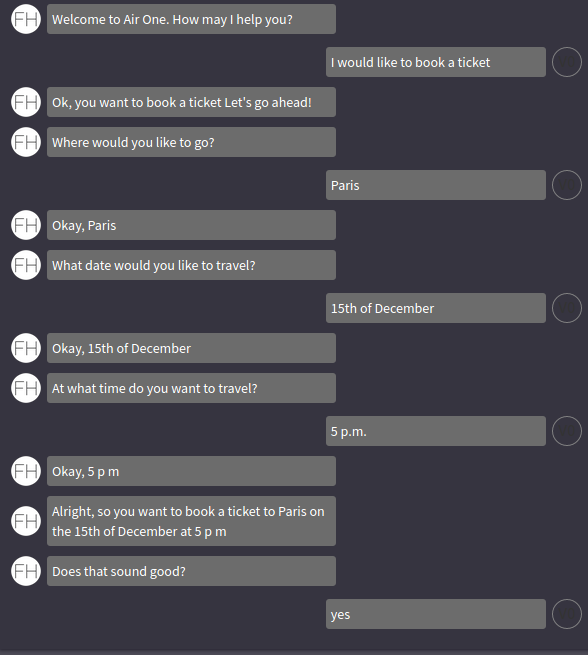
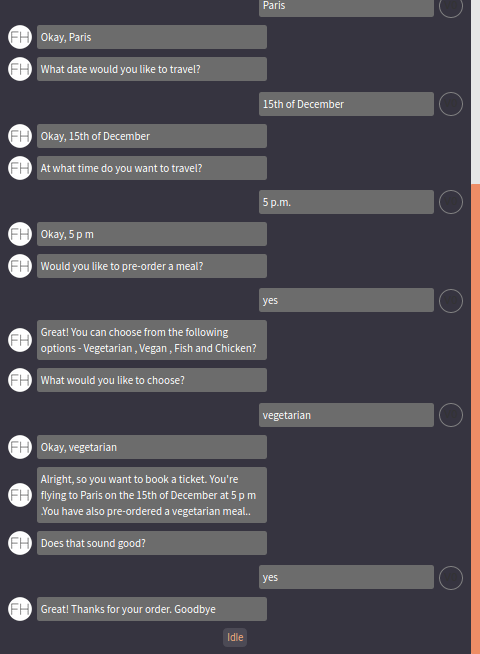
adding yes/no to meal conversation

diff --git a/AirportAssistant/src/main/kotlin/furhatos/app/pizzaorder/flow/pizzaorder.kt b/AirportAssistant/src/main/kotlin/furhatos/app/pizzaorder/flow/pizzaorder.kt
@@ -49,7 +49,7 @@ val CheckOrder = state {
             order.destination == null -> goto(RequestDestination)
             order.date == null -> goto(RequestDate)
             order.travelTime == null -> goto(RequestTime)
-            order.mealOption == null -> goto(RequestMealOption)
+            order.mealChosen == false -> goto(RequestMealOption)
 
             /*order.topping == null -> goto(RequestTopping)
             order.deliverTo == null -> goto(RequestDelivery)
@@ -158,15 +158,26 @@ val RequestDate : State = state(parent = OrderHandling) {
 
 val RequestMealOption : State = state(parent = OrderHandling) {
     onEntry {
-        furhat.ask("What meal would you like to pre-order?")
+        furhat.ask("Would you like to pre-order a meal?")
+    }
+
+    onResponse<Yes> {
+        furhat.say("Great! You can choose from the following options - ${MealOptions().optionsToText()}?")
+        furhat.ask("What would you like to choose?")
     }
 
     onReentry {
-        furhat.ask("What meal would you like to pre-order?")
+        furhat.ask("Would you like to pre-order a meal?")
     }
 
+    onResponse<No> {
+        furhat.say("Okay, no meal order")
+        users.current.order.mealChosen = true
+        goto(CheckOrder)
+    }
     onResponse<MealOptions> {
         furhat.say("Okay, ${it.intent}")
+        users.current.order.mealChosen = true
         users.current.order.mealOption = it.intent
         goto(CheckOrder)
     }

diff --git a/AirportAssistant/src/main/kotlin/furhatos/app/pizzaorder/nlu/intents.kt b/AirportAssistant/src/main/kotlin/furhatos/app/pizzaorder/nlu/intents.kt
@@ -12,6 +12,7 @@ open class OrderPizzaIntent : Intent(), TextGenerator {
     //var source : City? = null
     var destination : City? = null
     var date : Date? = null
+    var mealChosen: Boolean? = false
     var mealOption: MealOptions? = null
     var topping : ListOfTopping? = null
     var deliverTo : Place? = null
@@ -35,8 +36,14 @@ open class OrderPizzaIntent : Intent(), TextGenerator {
     }
 
     override fun toText(lang : Language) : String {
-        if((this.destination != null) and (this.date != null) and (this.travelTime != null) and (this.mealOption != null)){
-            return generate(lang, " You're flying [to $destination] on the [$date] at [$travelTime]. You have also pre-ordered a [$mealOption] meal.");
+        if((this.destination != null) and (this.date != null) and (this.travelTime != null) and (this.mealChosen == true)){
+            var message = " You're flying [to $destination] on the [$date] at [$travelTime]."
+            if (this.mealOption != null){
+                message = message + "You have also pre-ordered a [$mealOption] meal."
+            }else{
+                message = message + "You have not pre-ordered a meal."
+            }
+            return generate(lang, message);
         }else{
             return generate("Let's go ahead!")
         }
